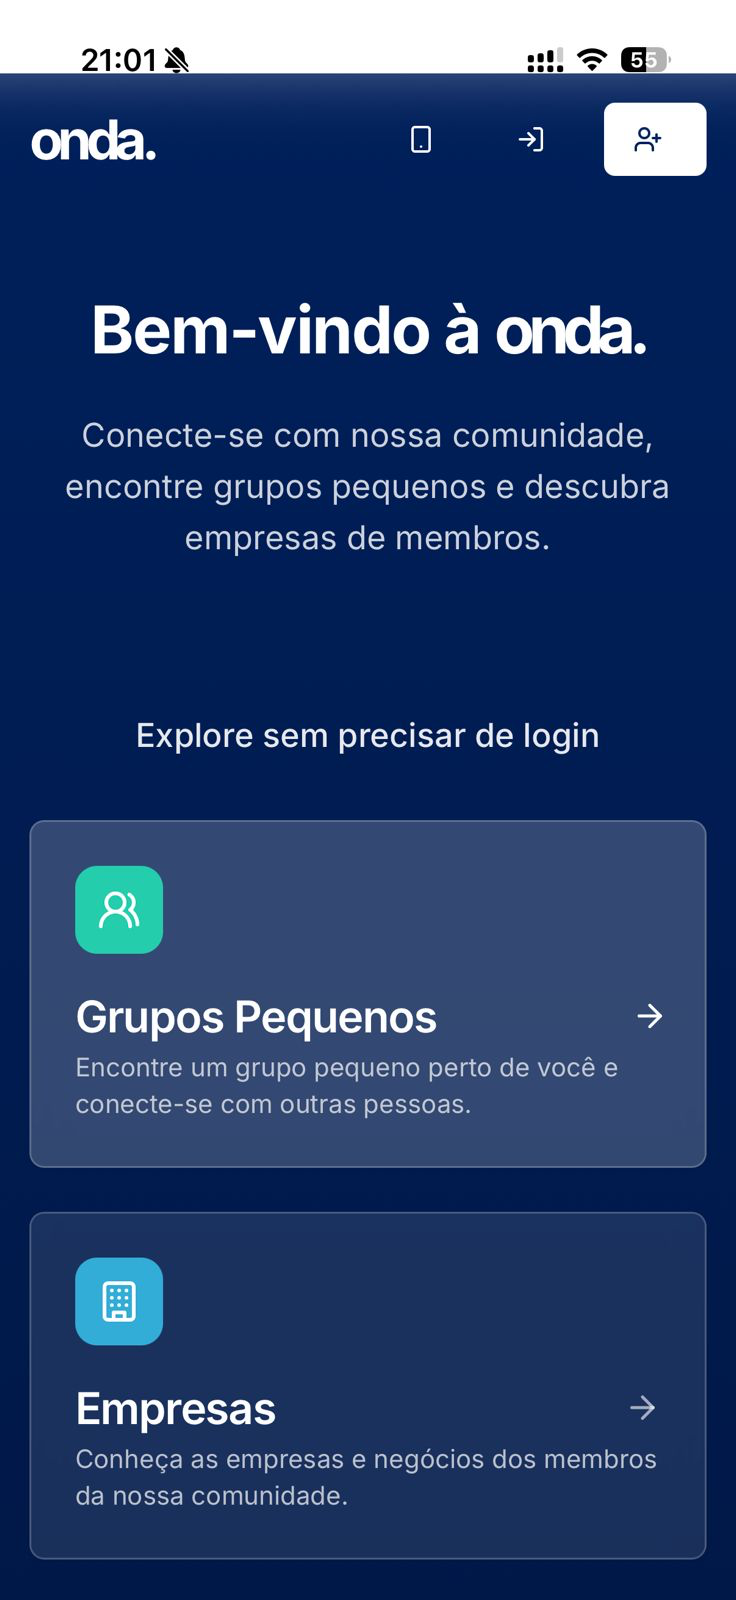
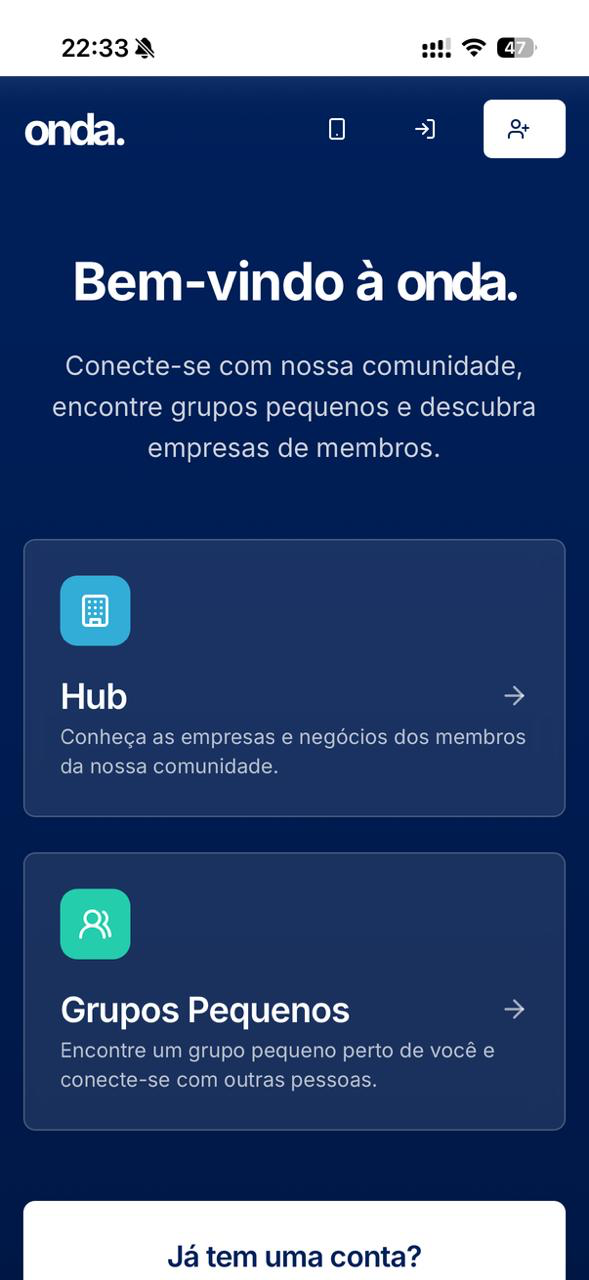
add remotion

diff --git a/remotion/components/PhoneMockup.tsx b/remotion/components/PhoneMockup.tsx
@@ -4,14 +4,41 @@ import { Img, staticFile } from "remotion";
 interface PhoneMockupProps {
   children?: React.ReactNode;
   screenshot?: string;
+  screenshots?: string[];
   scrollY?: number;
+  /**
+   * Pixels to crop from the top of every screenshot after the first one.
+   * Useful when subsequent screenshots repeat the page header.
+   */
+  trimAfterFirst?: number;
+  /**
+   * Aspect ratio of the screenshots (width / height). Defaults to 589/1280
+   * which matches the iPhone 14 webview captures used in this project.
+   */
+  imgAspectRatio?: number;
 }
+
+const PHONE_INTERIOR_WIDTH = 504;
+const IMG_OVERFLOW_SCALE = 1.05;
 
 export const PhoneMockup: React.FC<PhoneMockupProps> = ({
   children,
   screenshot,
+  screenshots,
   scrollY = 0,
+  trimAfterFirst = 0,
+  imgAspectRatio = 589 / 1280,
 }) => {
+  const imageList =
+    screenshots && screenshots.length > 0
+      ? screenshots
+      : screenshot
+        ? [screenshot]
+        : [];
+
+  const renderedImgWidth = PHONE_INTERIOR_WIDTH * IMG_OVERFLOW_SCALE;
+  const renderedImgHeight = renderedImgWidth / imgAspectRatio;
+
   return (
     <div
       style={{
@@ -49,7 +76,7 @@ export const PhoneMockup: React.FC<PhoneMockupProps> = ({
             zIndex: 10,
           }}
         />
-        {screenshot ? (
+        {imageList.length > 0 ? (
           <div
             style={{
               width: "100%",
@@ -58,16 +85,40 @@ export const PhoneMockup: React.FC<PhoneMockupProps> = ({
               position: "relative",
             }}
           >
-            <Img
-              src={staticFile(screenshot)}
+            <div
               style={{
-                width: "105%",
-                height: "auto",
-                display: "block",
-                marginLeft: "-2.5%",
+                fontSize: 0,
+                lineHeight: 0,
                 transform: `translateY(${-scrollY}px)`,
               }}
-            />
+            >
+              {imageList.map((src, i) => {
+                const trim = i > 0 ? trimAfterFirst : 0;
+                const wrapperHeight = renderedImgHeight - trim;
+                return (
+                  <div
+                    key={`${src}-${i}`}
+                    style={{
+                      width: "105%",
+                      marginLeft: "-2.5%",
+                      height: wrapperHeight,
+                      overflow: "hidden",
+                      position: "relative",
+                    }}
+                  >
+                    <Img
+                      src={staticFile(src)}
+                      style={{
+                        width: "100%",
+                        height: "auto",
+                        display: "block",
+                        marginTop: -trim,
+                      }}
+                    />
+                  </div>
+                );
+              })}
+            </div>
           </div>
         ) : (
           children

diff --git a/remotion/scenes/Scene03Empresas.tsx b/remotion/scenes/Scene03Empresas.tsx
@@ -18,24 +18,34 @@ export const Scene03Empresas: React.FC = () => {
     extrapolateRight: "clamp",
   });
 
-  const scrollY = interpolate(frame, [60, 230], [0, 80], {
-    extrapolateLeft: "clamp",
-    extrapolateRight: "clamp",
-  });
+  const scrollY = interpolate(
+    frame,
+    [40, 110, 180, 260],
+    [0, 80, 900, 1050],
+    {
+      extrapolateLeft: "clamp",
+      extrapolateRight: "clamp",
+    },
+  );
 
   const fingerOpacity = interpolate(
     frame,
-    [55, 70, 220, 240],
+    [40, 60, 240, 260],
     [0, 1, 1, 0],
     {
       extrapolateLeft: "clamp",
       extrapolateRight: "clamp",
     },
   );
-  const fingerY = interpolate(frame, [60, 230], [-150, -350], {
-    extrapolateLeft: "clamp",
-    extrapolateRight: "clamp",
-  });
+  const fingerY = interpolate(
+    frame,
+    [40, 110, 130, 180, 200, 260],
+    [-150, -300, -150, -300, -150, -300],
+    {
+      extrapolateLeft: "clamp",
+      extrapolateRight: "clamp",
+    },
+  );
 
   return (
     <AbsoluteFill style={{ alignItems: "center", paddingTop: 120 }}>
@@ -57,15 +67,29 @@ export const Scene03Empresas: React.FC = () => {
             fontWeight: 700,
           }}
         >
-          Em destaque
+          Conheça o
         </div>
-        <div style={{ fontSize: 96, fontWeight: 800, marginTop: 8, lineHeight: 1 }}>
-          Empresas
+        <div style={{ fontSize: 120, fontWeight: 800, marginTop: 8, lineHeight: 1 }}>
+          Hub
+        </div>
+        <div
+          style={{
+            fontSize: 28,
+            opacity: 0.75,
+            marginTop: 12,
+            fontWeight: 500,
+          }}
+        >
+          Empresas e negócios da comunidade
         </div>
       </div>
 
-      <div style={{ marginTop: 60, position: "relative" }}>
-        <PhoneMockup screenshot="screens/empresas.png" scrollY={scrollY} />
+      <div style={{ marginTop: 40, position: "relative" }}>
+        <PhoneMockup
+          screenshots={["screens/empresas.png", "screens/empresas2.png"]}
+          scrollY={scrollY}
+          trimAfterFirst={180}
+        />
 
         <div
           style={{

diff --git a/remotion/OndaOnboarding.tsx b/remotion/OndaOnboarding.tsx
@@ -1,6 +1,14 @@
 import React, { useEffect, useState } from "react";
-import { AbsoluteFill, Sequence, continueRender, delayRender } from "remotion";
-import { ONDA } from "./tokens";
+import {
+  AbsoluteFill,
+  Html5Audio,
+  Sequence,
+  continueRender,
+  delayRender,
+  interpolate,
+  staticFile,
+} from "remotion";
+import { FPS, ONDA, TOTAL_DURATION } from "./tokens";
 import { loadOndaFonts } from "./fonts";
 import { WaveBackground } from "./components/WaveBackground";
 import { Scene01Logo } from "./scenes/Scene01Logo";
@@ -8,6 +16,9 @@ import { Scene02Tagline } from "./scenes/Scene02Tagline";
 import { Scene03Empresas } from "./scenes/Scene03Empresas";
 import { Scene04Message } from "./scenes/Scene04Message";
 import { Scene05CTA } from "./scenes/Scene05CTA";
+
+const TARGET_VOLUME = 0.35;
+const FADE_FRAMES = FPS;
 
 export const OndaOnboarding: React.FC = () => {
   const [handle] = useState(() => delayRender("Loading Onda fonts"));
@@ -22,25 +33,45 @@ export const OndaOnboarding: React.FC = () => {
         background: `linear-gradient(180deg, ${ONDA.darkBlue} 0%, #001540 100%)`,
       }}
     >
+      <Html5Audio
+        src={staticFile("audio/trilha.mp3")}
+        volume={(f) =>
+          interpolate(
+            f,
+            [
+              0,
+              FADE_FRAMES,
+              TOTAL_DURATION - FADE_FRAMES,
+              TOTAL_DURATION,
+            ],
+            [0, TARGET_VOLUME, TARGET_VOLUME, 0],
+            {
+              extrapolateLeft: "clamp",
+              extrapolateRight: "clamp",
+            },
+          )
+        }
+      />
+
       <WaveBackground />
 
       <Sequence from={0} durationInFrames={90} name="01 · Logo">
         <Scene01Logo />
       </Sequence>
 
-      <Sequence from={90} durationInFrames={180} name="02 · Tagline">
+      <Sequence from={90} durationInFrames={120} name="02 · Tagline">
         <Scene02Tagline />
       </Sequence>
 
-      <Sequence from={270} durationInFrames={270} name="03 · Empresas">
+      <Sequence from={210} durationInFrames={270} name="03 · Empresas">
         <Scene03Empresas />
       </Sequence>
 
-      <Sequence from={540} durationInFrames={180} name="04 · Mensagem">
+      <Sequence from={480} durationInFrames={180} name="04 · Mensagem">
         <Scene04Message />
       </Sequence>
 
-      <Sequence from={720} durationInFrames={120} name="05 · CTA">
+      <Sequence from={660} durationInFrames={120} name="05 · CTA">
         <Scene05CTA />
       </Sequence>
     </AbsoluteFill>

diff --git a/remotion/scenes/Scene05CTA.tsx b/remotion/scenes/Scene05CTA.tsx
@@ -43,9 +43,21 @@ export const Scene05CTA: React.FC = () => {
           color: ONDA.white,
           letterSpacing: "-0.1em",
           lineHeight: 1,
+          display: "flex",
+          alignItems: "baseline",
         }}
       >
-        onda<span style={{ color: ONDA.teal }}>.</span>
+        onda
+        <span
+          style={{
+            display: "inline-block",
+            width: "0.22em",
+            height: "0.22em",
+            marginLeft: "0.06em",
+            borderRadius: "50%",
+            background: ONDA.white,
+          }}
+        />
       </div>
       <div
         style={{

diff --git a/remotion/scenes/Scene01Logo.tsx b/remotion/scenes/Scene01Logo.tsx
@@ -45,12 +45,14 @@ export const Scene01Logo: React.FC = () => {
         <span
           style={{
             transform: `scale(${dotPop})`,
-            color: ONDA.teal,
             display: "inline-block",
+            width: "0.22em",
+            height: "0.22em",
+            marginLeft: "0.06em",
+            borderRadius: "50%",
+            background: ONDA.white,
           }}
-        >
-          .
-        </span>
+        />
       </div>
       <div
         style={{

diff --git a/remotion/tokens.ts b/remotion/tokens.ts
@@ -14,4 +14,4 @@ export const FONT_STACK = `"Gotham Bold", "Inter", -apple-system, "Segoe UI", sa
 export const FPS = 30;
 export const WIDTH = 1080;
 export const HEIGHT = 1920;
-export const TOTAL_DURATION = 840;
+export const TOTAL_DURATION = 780;